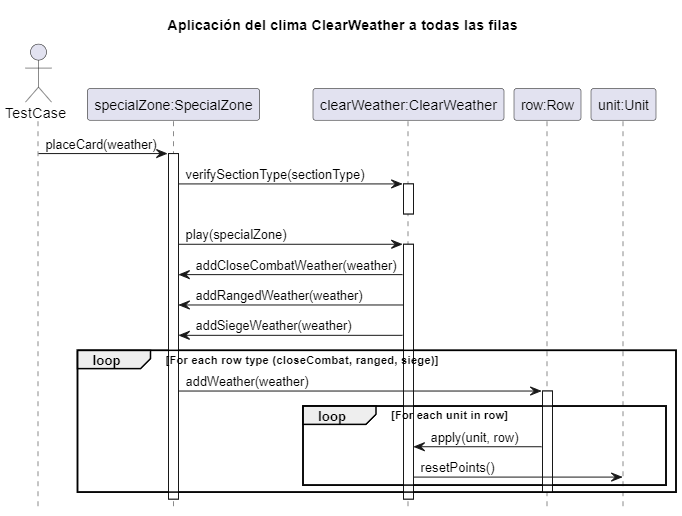
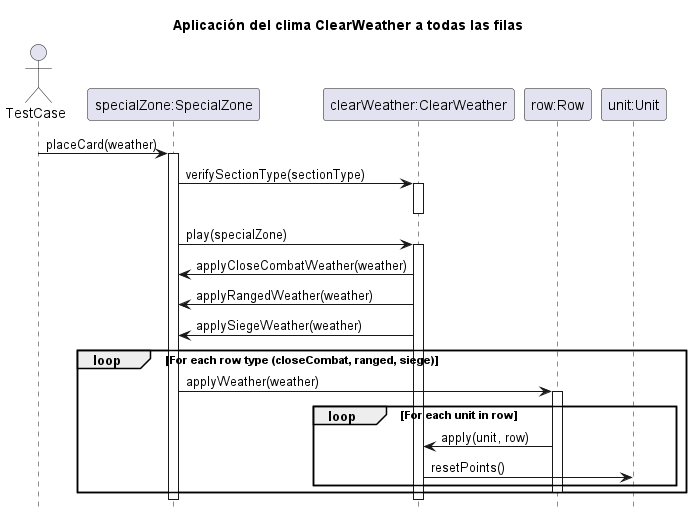
Change from addWeather to applyWeather

diff --git a/src/main/test/edu/fiuba/algo3/modelo/WeatherTest.java b/src/main/test/edu/fiuba/algo3/modelo/WeatherTest.java
@@ -62,7 +62,7 @@ public class WeatherTest {
     public void testBitingFrostReducesCloseCombatUnitPoints() {
         // Act
         closeCombatRow.placeCard(soldier);
-        closeCombatRow.addWeather(frostWeather);
+        closeCombatRow.applyWeather(frostWeather);
 
         // Assert
         assertEquals(1, soldier.calculatePoints(), "La escarcha debería reducir los puntos de la unidad cuerpo a cuerpo a 1");
@@ -72,7 +72,7 @@ public class WeatherTest {
     public void testBitingFrostDoesNotAffectRangedUnits() {
         // Act
         rangedRow.placeCard(archer);
-        rangedRow.addWeather(frostWeather);
+        rangedRow.applyWeather(frostWeather);
         
         // Assert
         assertEquals(8, archer.calculatePoints(), "La escarcha no debería afectar a las unidades a distancia");
@@ -82,7 +82,7 @@ public class WeatherTest {
     public void testImpenetrableFogReducesRangedUnitPoints() {
         // Act
         rangedRow.placeCard(archer);
-        rangedRow.addWeather(fogWeather);
+        rangedRow.applyWeather(fogWeather);
         
         // Assert
         assertEquals(1, archer.calculatePoints(), "La niebla debería reducir los puntos de la unidad a distancia a 1");
@@ -92,7 +92,7 @@ public class WeatherTest {
     public void testImpenetrableFogDoesNotAffectCloseCombatUnits() {
         // Act
         closeCombatRow.placeCard(soldier);
-        closeCombatRow.addWeather(fogWeather);
+        closeCombatRow.applyWeather(fogWeather);
         
         // Assert
         assertEquals(10, soldier.calculatePoints(), "La niebla no debería afectar a las unidades cuerpo a cuerpo");
@@ -102,7 +102,7 @@ public class WeatherTest {
     public void testTorrentialRainReducesSiegeUnitPoints() {
         // Act
         siegeRow.placeCard(catapult);
-        siegeRow.addWeather(rainWeather);
+        siegeRow.applyWeather(rainWeather);
         
         // Assert
         assertEquals(1, catapult.calculatePoints(), "La lluvia debería reducir los puntos de la unidad de asedio a 1");
@@ -112,7 +112,7 @@ public class WeatherTest {
     public void testTorrentialRainDoesNotAffectCloseCombatUnits() {
         // Act
         closeCombatRow.placeCard(soldier);
-        closeCombatRow.addWeather(rainWeather);
+        closeCombatRow.applyWeather(rainWeather);
         
         // Assert
         assertEquals(10, soldier.calculatePoints(), "La lluvia no debería afectar a las unidades cuerpo a cuerpo");
@@ -121,7 +121,7 @@ public class WeatherTest {
     @Test
     public void testBitingFrostAffectsNewCloseCombatUnit() {
         // Act
-        closeCombatRow.addWeather(frostWeather);
+        closeCombatRow.applyWeather(frostWeather);
         closeCombatRow.placeCard(soldier);
         
         // Assert
@@ -131,7 +131,7 @@ public class WeatherTest {
     @Test
     public void testImpenetrableFogAffectsNewRangedUnit() {
         // Act
-        rangedRow.addWeather(fogWeather);
+        rangedRow.applyWeather(fogWeather);
         rangedRow.placeCard(archer);
         
         // Assert
@@ -141,7 +141,7 @@ public class WeatherTest {
     @Test
     public void testTorrentialRainAffectsNewSiegeUnit() {
         // Act
-        siegeRow.addWeather(rainWeather);
+        siegeRow.applyWeather(rainWeather);
         siegeRow.placeCard(catapult);
         
         // Assert
@@ -152,10 +152,10 @@ public class WeatherTest {
     public void testClearWeatherRemovesFrostEffect() {
         // Arrange
         closeCombatRow.placeCard(soldier);
-        closeCombatRow.addWeather(frostWeather);
+        closeCombatRow.applyWeather(frostWeather);
         
         // Act
-        closeCombatRow.addWeather(clearWeather);
+        closeCombatRow.applyWeather(clearWeather);
         
         // Assert
         assertEquals(10, soldier.calculatePoints(), "Las unidades cuerpo a cuerpo deberían volver a sus puntos originales");
@@ -165,10 +165,10 @@ public class WeatherTest {
     public void testClearWeatherRemovesFogEffect() {
         // Arrange
         rangedRow.placeCard(archer);
-        rangedRow.addWeather(fogWeather);
+        rangedRow.applyWeather(fogWeather);
         
         // Act
-        rangedRow.addWeather(clearWeather);
+        rangedRow.applyWeather(clearWeather);
         
         // Assert
         assertEquals(8, archer.calculatePoints(), "Las unidades a distancia deberían volver a sus puntos originales");
@@ -178,10 +178,10 @@ public class WeatherTest {
     public void testClearWeatherRemovesRainEffect() {
         // Arrange
         siegeRow.placeCard(catapult);
-        siegeRow.addWeather(rainWeather);
+        siegeRow.applyWeather(rainWeather);
         
         // Act
-        siegeRow.addWeather(clearWeather);
+        siegeRow.applyWeather(clearWeather);
         
         // Assert
         assertEquals(12, catapult.calculatePoints(), "Las unidades de asedio deberían volver a sus puntos originales");

diff --git a/src/main/java/edu/fiuba/algo3/modelo/SpecialZone.java b/src/main/java/edu/fiuba/algo3/modelo/SpecialZone.java
@@ -21,21 +21,21 @@ public class SpecialZone implements Section {
         card.play(this);
     }
 
-    public void addCloseCombatWeather(Weather weather) {
+    public void applyCloseCombatWeather(Weather weather) {
         for (Row row : closeCombatRows) {
-            row.addWeather(weather);
+            row.applyWeather(weather);
         }
     }
 
-    public void addRangedWeather(Weather weather) {
+    public void applyRangedWeather(Weather weather) {
         for (Row row : rangedRows) {
-            row.addWeather(weather);
+            row.applyWeather(weather);
         }
     }
 
-    public void addSiegeWeather(Weather weather) {
+    public void applySiegeWeather(Weather weather) {
         for (Row row : siegeRows) {
-            row.addWeather(weather);
+            row.applyWeather(weather);
         }
     }
 } 

diff --git a/src/main/java/edu/fiuba/algo3/modelo/ClearWeather.java b/src/main/java/edu/fiuba/algo3/modelo/ClearWeather.java
@@ -10,9 +10,9 @@ public class ClearWeather extends Weather {
     @Override
     public void play(Section section) {
         SpecialZone specialZone = (SpecialZone) section;
-        specialZone.addCloseCombatWeather(this);
-        specialZone.addRangedWeather(this);
-        specialZone.addSiegeWeather(this);
+        specialZone.applyCloseCombatWeather(this);
+        specialZone.applyRangedWeather(this);
+        specialZone.applySiegeWeather(this);
     }
 
     @Override

diff --git a/src/main/java/edu/fiuba/algo3/modelo/Row.java b/src/main/java/edu/fiuba/algo3/modelo/Row.java
@@ -28,7 +28,7 @@ public abstract class Row implements Section {
         currentWeather.apply(card, this);
     }
 
-    public void addWeather(Weather weather) {
+    public void applyWeather(Weather weather) {
         this.currentWeather = weather;
         for (Card card : cards) {
             currentWeather.apply(card, this);

diff --git a/src/main/test/edu/fiuba/algo3/modelo/RowTest.java b/src/main/test/edu/fiuba/algo3/modelo/RowTest.java
@@ -96,7 +96,7 @@ public class RowTest {
         Weather niebla = new ImpenetrableFog("Niebla Impenetrable", "Reduce la fuerza de las unidades a 1");
 
         ranged.placeCard(arquero);
-        ranged.addWeather(niebla);
+        ranged.applyWeather(niebla);
 
         assertEquals(1, arquero.calculatePoints());
     }

diff --git a/src/main/java/edu/fiuba/algo3/modelo/BitingFrost.java b/src/main/java/edu/fiuba/algo3/modelo/BitingFrost.java
@@ -12,7 +12,7 @@ public class BitingFrost extends Weather {
     @Override
     public void play(Section section) {
         SpecialZone specialZone = (SpecialZone) section;
-        specialZone.addCloseCombatWeather(this);
+        specialZone.applyCloseCombatWeather(this);
     }
 
     @Override

diff --git a/src/main/java/edu/fiuba/algo3/modelo/ImpenetrableFog.java b/src/main/java/edu/fiuba/algo3/modelo/ImpenetrableFog.java
@@ -12,7 +12,7 @@ public class ImpenetrableFog extends Weather {
     @Override
     public void play(Section section) {
         SpecialZone specialZone = (SpecialZone) section;
-        specialZone.addRangedWeather(this);
+        specialZone.applyRangedWeather(this);
     }
 
     @Override

diff --git a/src/main/java/edu/fiuba/algo3/modelo/TorrentialRain.java b/src/main/java/edu/fiuba/algo3/modelo/TorrentialRain.java
@@ -12,7 +12,7 @@ public class TorrentialRain extends Weather {
     @Override
     public void play(Section section) {
         SpecialZone specialZone = (SpecialZone) section;
-        specialZone.addSiegeWeather(this);
+        specialZone.applySiegeWeather(this);
     }
 
     @Override
